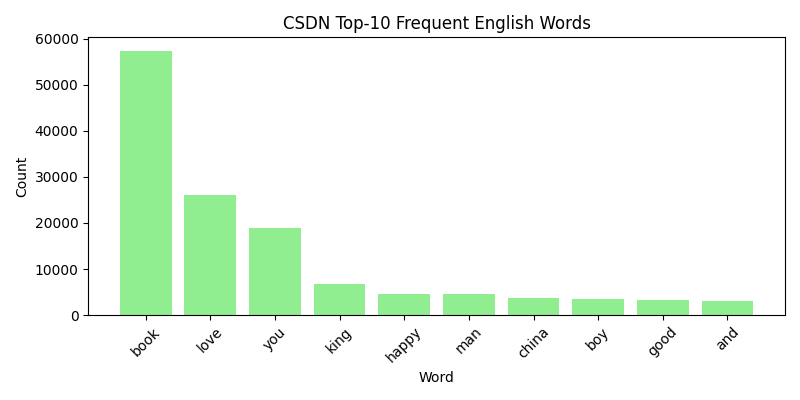
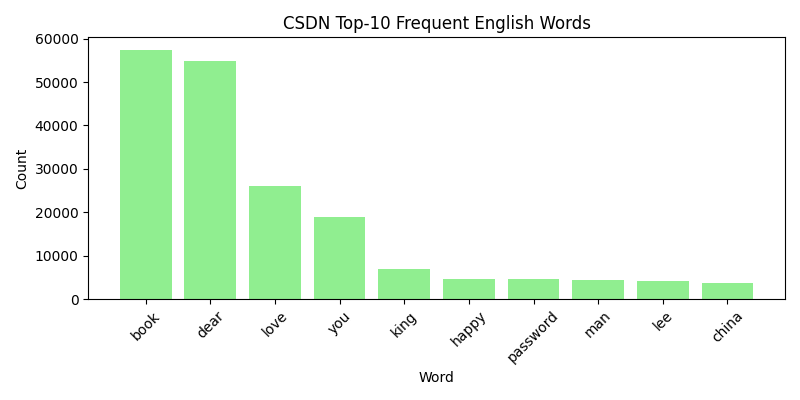
wsy work

diff --git a/ex1_wsy/pw_analy5_wsy.py b/ex1_wsy/pw_analy5_wsy.py
@@ -16,23 +16,24 @@ COUNT_MODE = 'unique_per_password'  # 每个密码只统计一次单词
 
 # ========== 噪声过滤机制 ==========
 COMMON_NON_WORDS = [
-    r'^[a-z]{1,2}$',                      # 过短字母串
+    r'^[a-z]{1}$',                      # 过短字母串
     r'^(qwe|asd|zxc|poi|lkj|mnb|qaz|wsx|edc|abc)+$',  # 键盘序列
     r'^(aaa|bbb|ccc|ddd|eee|fff)+$',      # 重复字母
 ]
 
-PINYIN_SURNAMES = {
+BLACK_SURNAMES = {
     'wang', 'li', 'zhang', 'liu', 'chen', 'yang', 'zhao', 'wu', 'zhou', 'xu',
     'sun', 'hu', 'zhu', 'gao', 'lin', 'he', 'guo', 'ma', 'lu', 'dong', 'xie',
     'song', 'shi', 'tang', 'feng', 'yu', 'cai', 'pan', 'deng', 'xiao', 'tian',
     'liang', 'wei', 'jiang', 'han', 'fan', 'peng', 'yuan', 'cao', 'fu', 'ren',
-    'fang', 'jing', 'cheng', 'qian', 'mo', 'qiu', 'long', 'chang',
-    'qiao', 'mei', 'hua', 'jin', 'tao', 'qi', 'wen', 'yan', 'bao', 'du',
-    'ye', 'su', 'pei', 'luo', 'shan', 'hou', 'qin', 'ruan', 'tan', 'lu'
+    'fang', 'jing', 'cheng', 'qian', 'mo', 'qiu', 'long', 'chang', 'com', 'ian',
+    'qiao', 'mei', 'hua', 'jin', 'tao', 'qi', 'wen', 'yan', 'bao', 'du', 'bin',
+    'ye', 'su', 'pei', 'luo', 'shan', 'hou', 'qin', 'ruan', 'tan', 'lu', 'hong',
+    'min', 'dan', 'ron', 'juan'
 }
 
 def is_noise_word(word):
-    if word in PINYIN_SURNAMES:
+    if word in BLACK_SURNAMES:
         return True
     for pat in COMMON_NON_WORDS:
         if re.fullmatch(pat, word):
@@ -227,11 +228,12 @@ def main():
     pwds2 = load_passwords(FILE2)
 
     with open(REPORT_PATH, "w", encoding="utf-8") as report_file:
-        analyze_english_words(pwds1, "Yahoo", report_file, min_freq_all=3.0, min_freq_top=5.0)
-        analyze_english_words(pwds2, "CSDN", report_file, min_freq_all=3.0, min_freq_top=5.0)
+        analyze_english_words(pwds1, "Yahoo", report_file, min_freq_all=3.0, min_freq_top=3.5)
+        analyze_english_words(pwds2, "CSDN", report_file, min_freq_all=3.0, min_freq_top=4.0)
 
-    print(f"✅ 英文单词分析完成！报告已保存至: {REPORT_PATH}")
-    print(f"📊 图表已保存至: {OUTPUT_DIR}")
+    print(f" 英文单词分析完成！报告已保存至: {REPORT_PATH}")
+    print(f" 图表已保存至: {OUTPUT_DIR}")
+
 
 if __name__ == "__main__":
     main()
